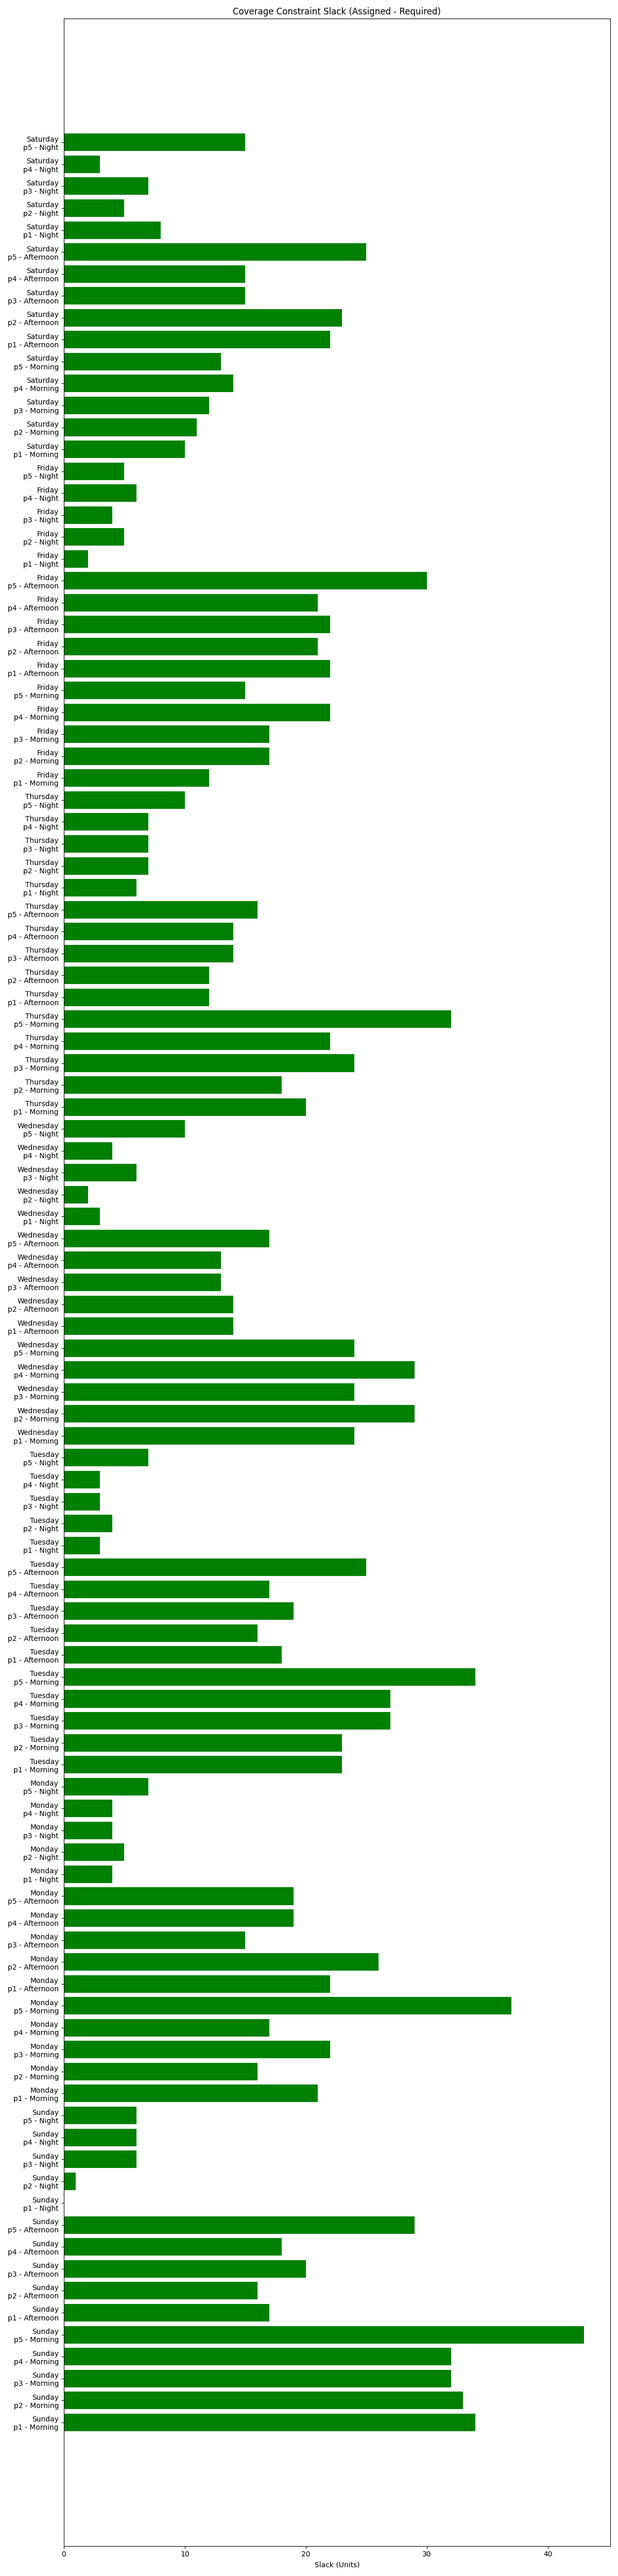
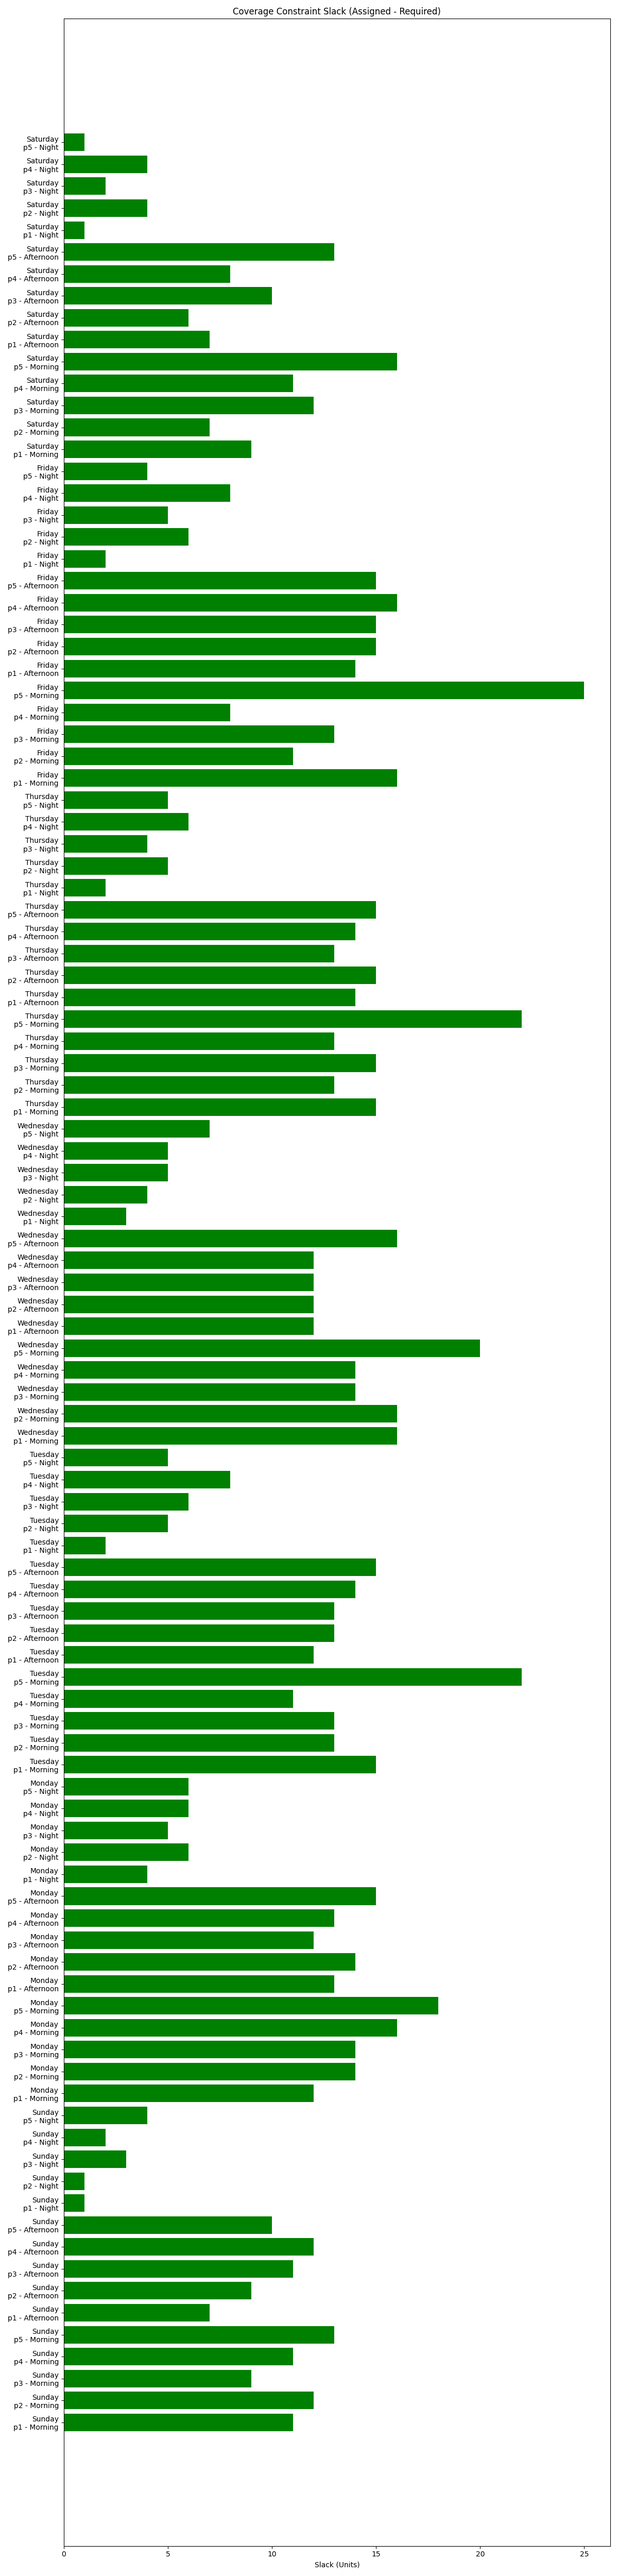
feat: for 65 size staff

diff --git a/main.py b/main.py
@@ -11,7 +11,7 @@ import pandas as pd
 # -----------------------
 # Data and Parameters
 # -----------------------
-num_nurses = 100
+num_nurses = 65
 nurses = range(num_nurses)
 
 # Skills: assume four skills: A, B, C, D
